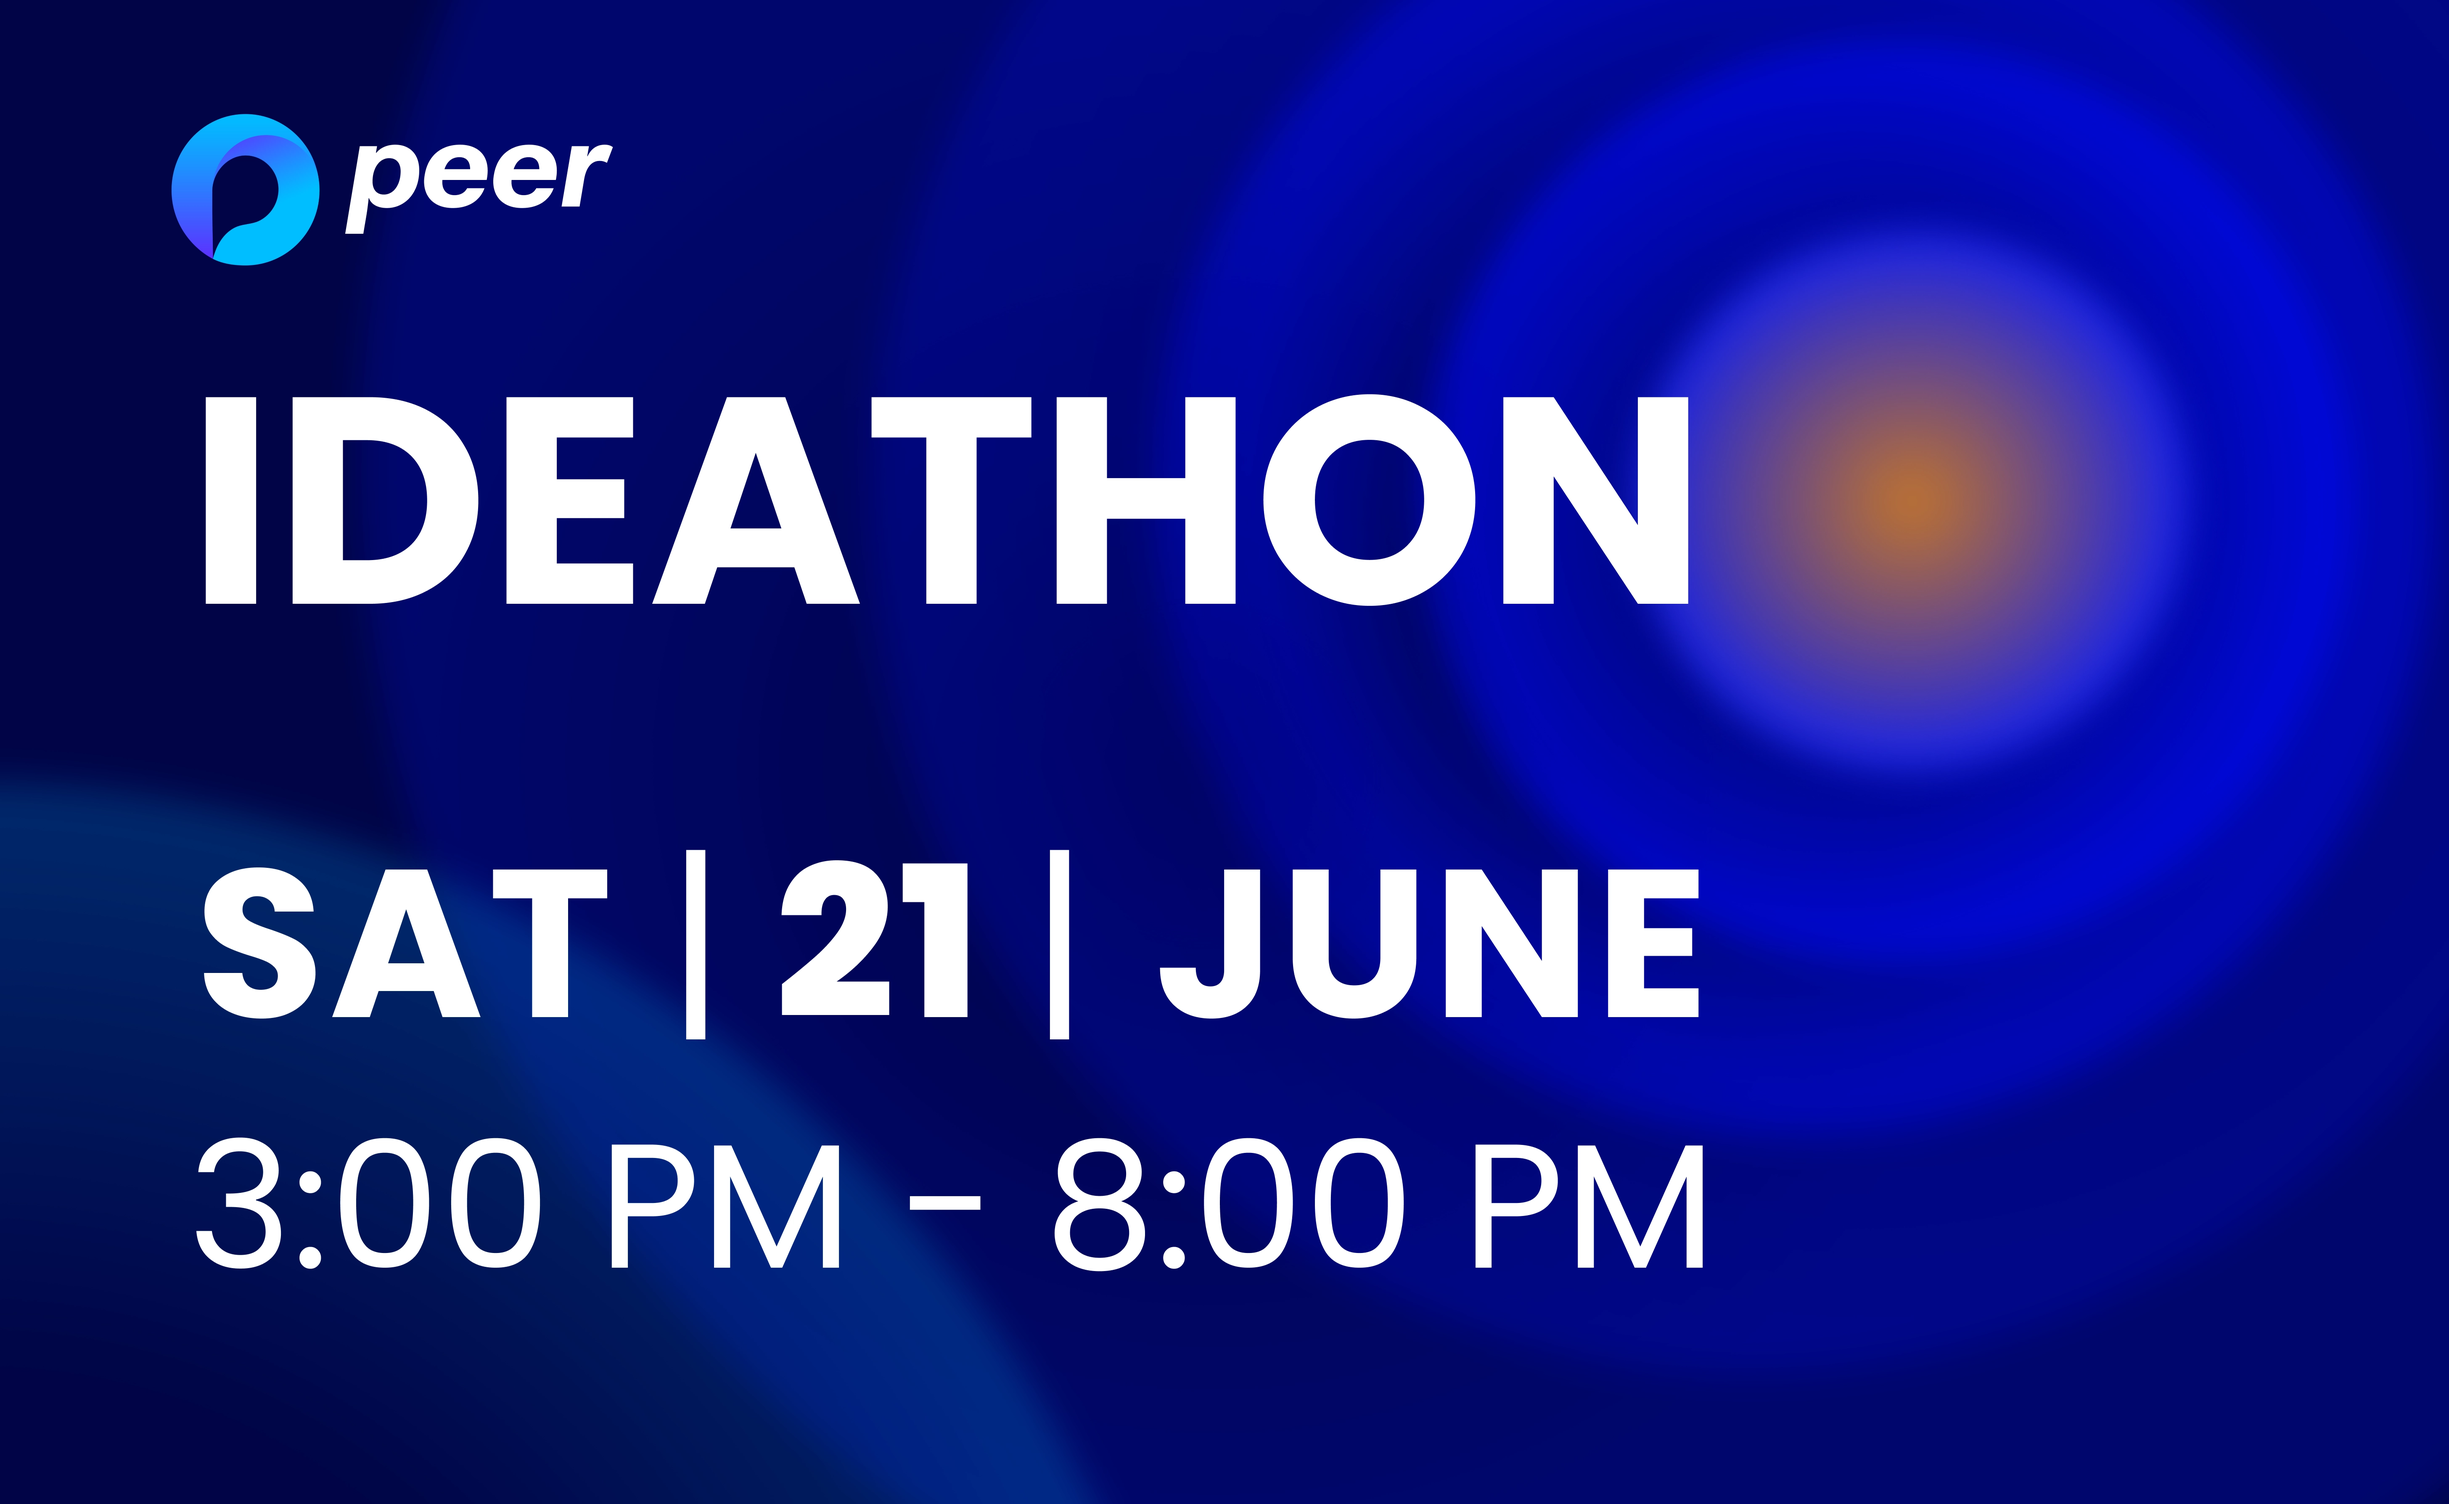
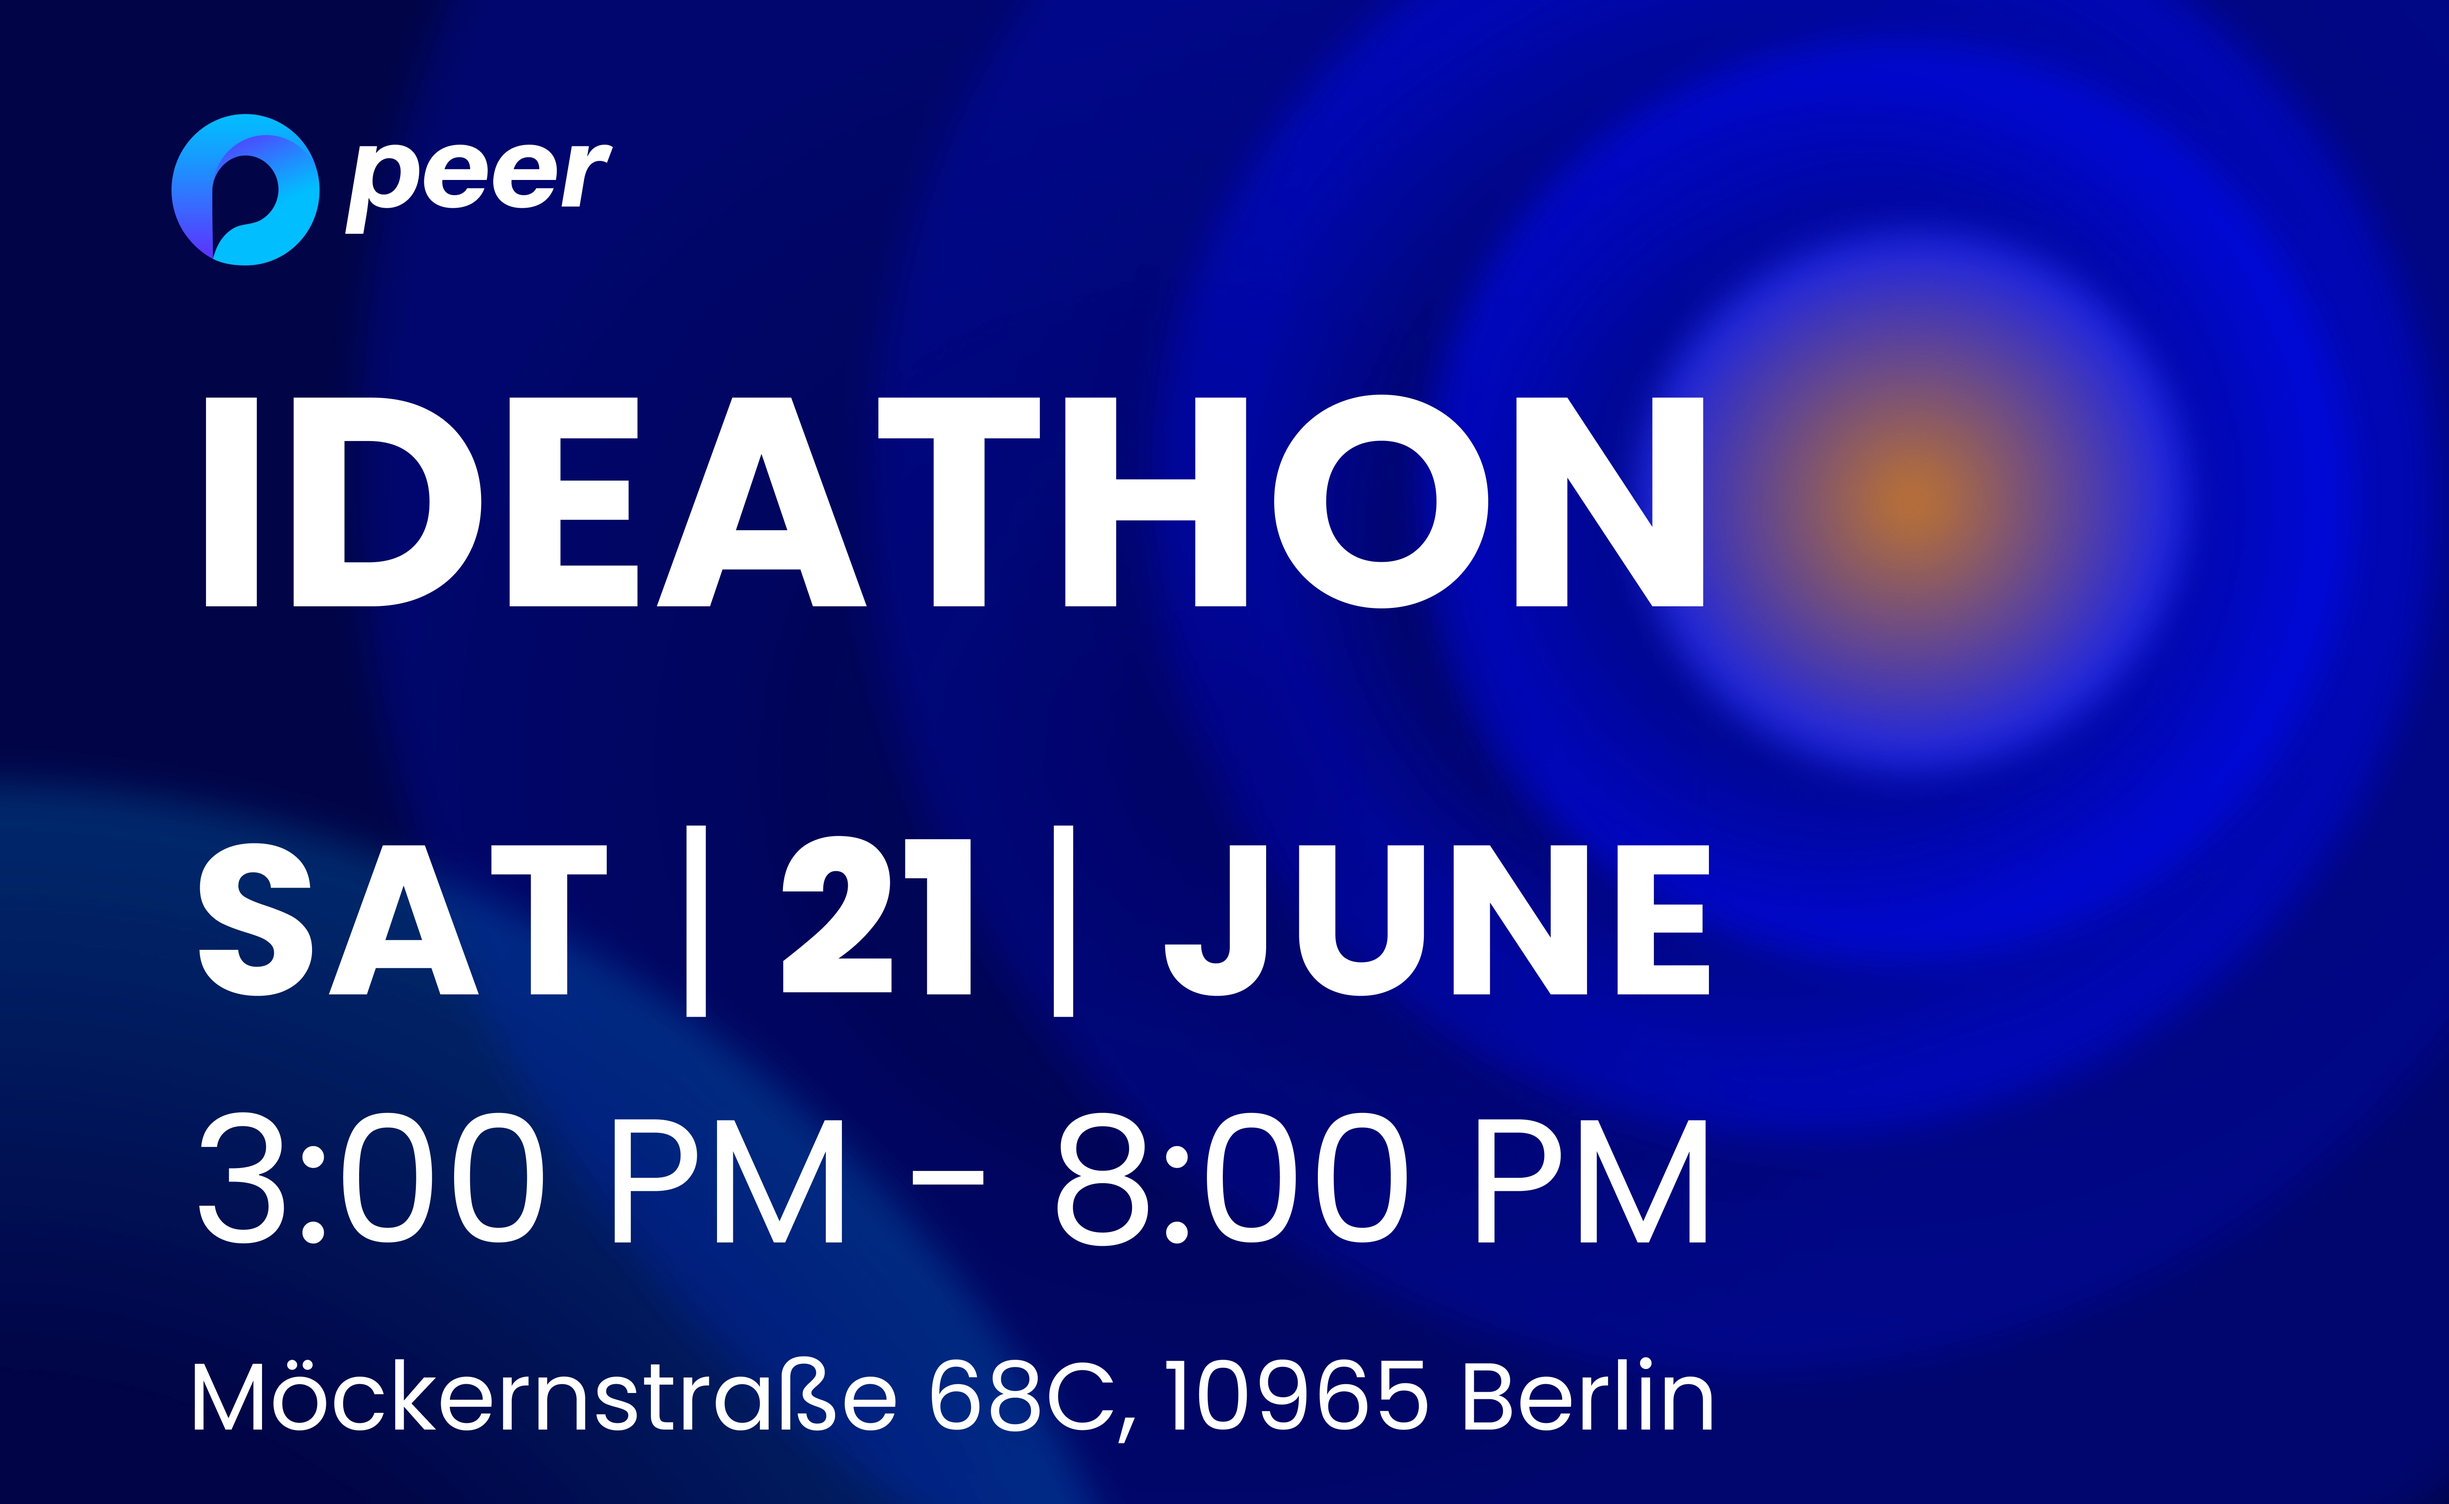
fix(index-css): fix index css after some merge conflicts and updated the ideathon.webp

diff --git a/css/index.css b/css/index.css
@@ -1220,7 +1220,7 @@ a {
   /* .valid {
     margin-top: 3rem;
   } */
-
+}
 
 
 @media only screen and (min-width: 451px) and (max-width: 768px) {
@@ -2100,7 +2100,7 @@ a {
   /* .valid {
     margin-top: 4rem;
   } */
-
+}
 
 @media only screen and (min-width: 769px) and (max-width: 992px) {
   h1 {
@@ -2918,8 +2918,7 @@ a {
     margin-top: 6rem;
   } */
 
-
-
+}
 
 @media only screen and (min-width: 993px) and (max-width: 1240px) {
   h1 {
@@ -3828,8 +3827,7 @@ a {
     margin-top: 6rem;
 
   } */
-
-  
+}
 
 @media only screen and (min-width: 1241px) {
   h1 {
@@ -4730,3 +4728,4 @@ a {
   /* .valid {
     margin-top: 8rem;
   } */
+}
